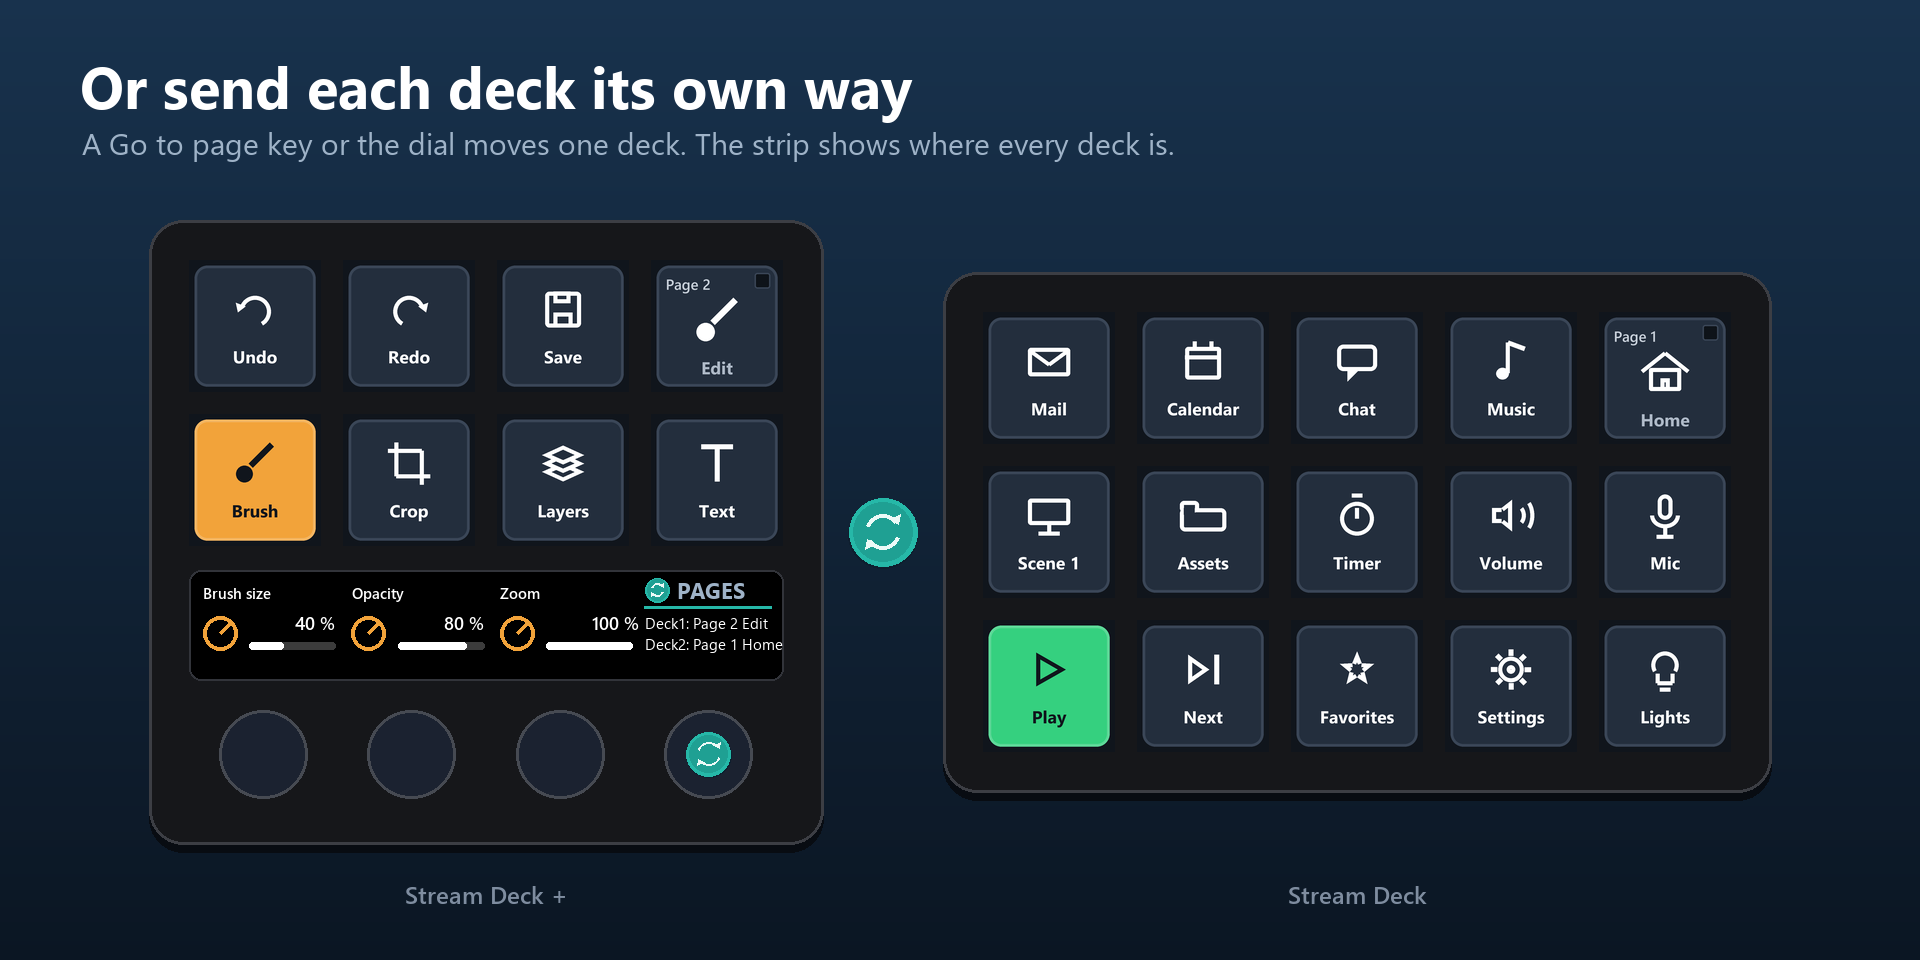
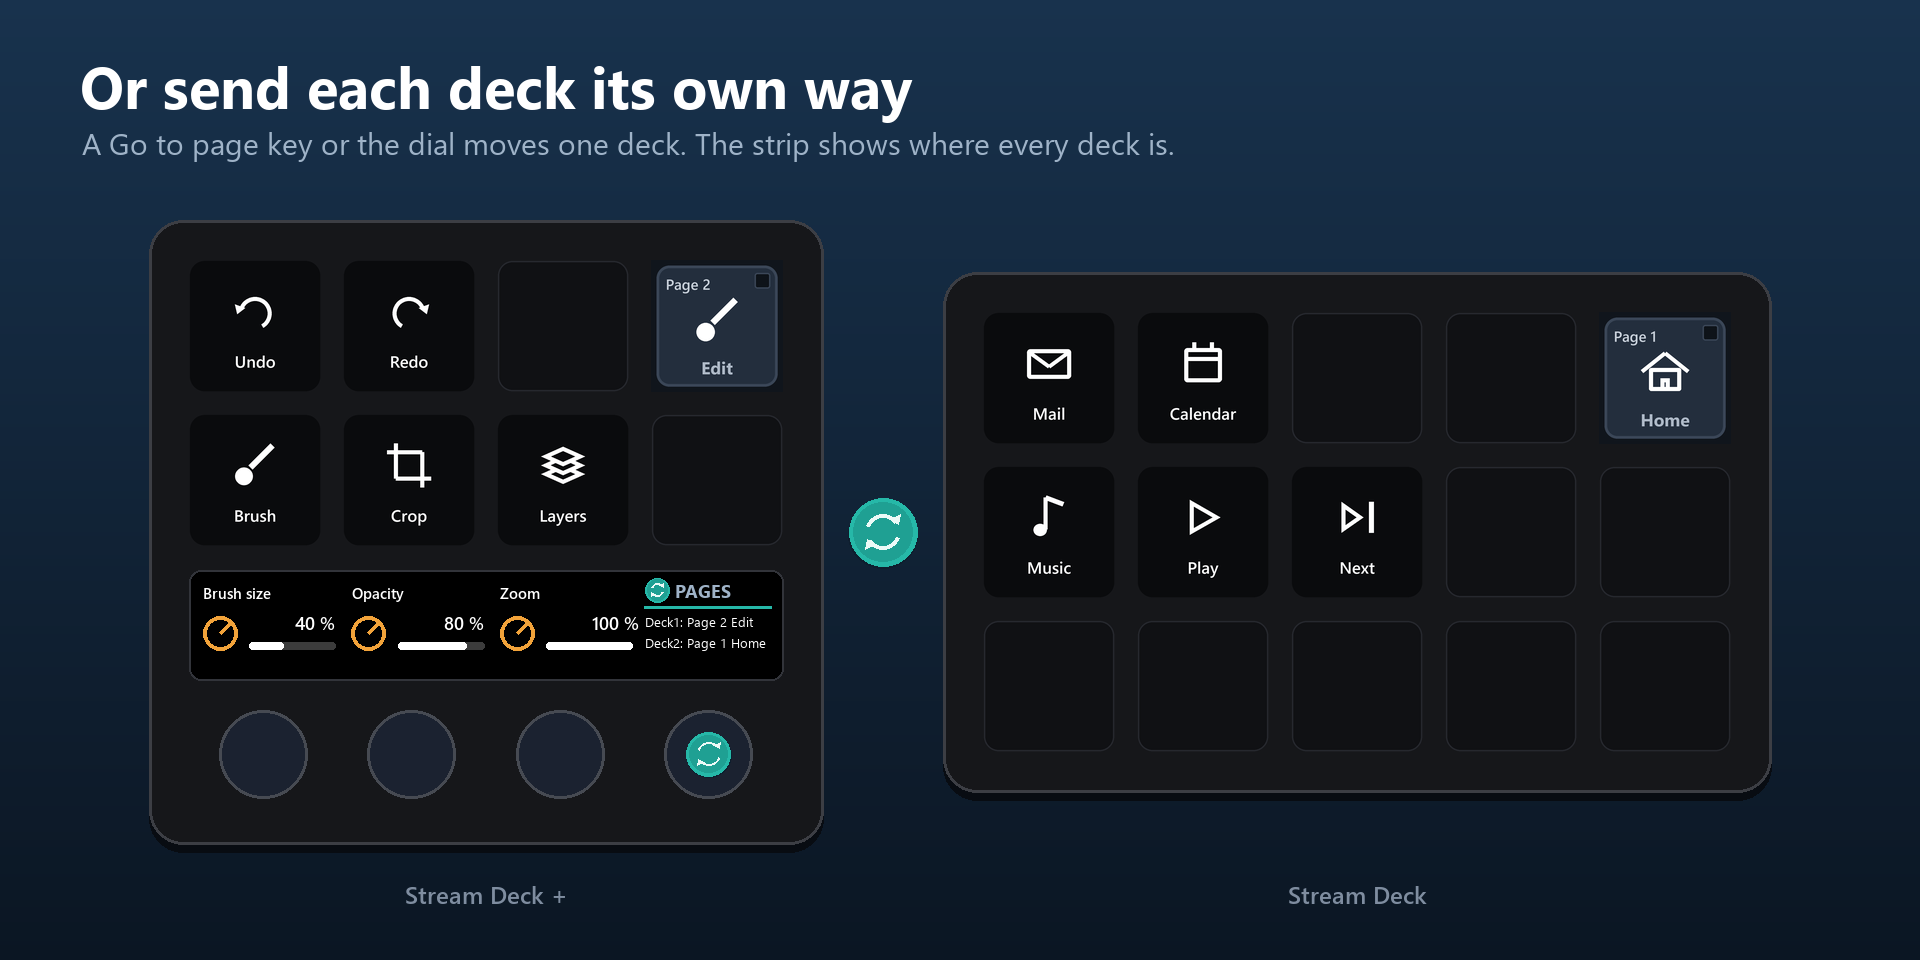
Illustrations: standard black keys, sparse pages so the DeckSync keys stand out

diff --git a/tools/gen-promo.py b/tools/gen-promo.py
@@ -139,25 +139,34 @@ def g_calendar(d, cx, cy, k, c, w):
         d.line((cx + dx * k, cy - 19 * k, cx + dx * k, cy - 11 * k), fill=c, width=w)
 
 
+KEY_BG = (10, 11, 13)
+
+
+def blank(S=576):
+    """Standard Stream Deck-tast: svart, avrundet, uten ramme."""
+    img = Image.new("RGB", (S, S), il.BODY)
+    d = ImageDraw.Draw(img)
+    d.rounded_rectangle((4, 4, S - 4, S - 4), radius=64, fill=KEY_BG)
+    return img, d
+
+
+def empty():
+    img, d = blank()
+    d.rounded_rectangle((4, 4, 572, 572), radius=64, fill=(16, 17, 20), outline=(38, 40, 46), width=6)
+    return img.resize((KEY, KEY), Image.LANCZOS)
+
+
 def ukey(label, glyph, fill=None):
-    """Vanlig tast: ikon og navn. fill gir farget flis (aktiv/advarsel)."""
+    """Vanlig tast i appens standardstil: hvitt ikon og hvit tittel på svart."""
+    global TILE
     S, q = 576, 4
-    img, d, _ = gi.tile_base(S)
-    fg = WHITE
-    if fill:
-        edge = tuple(min(255, int(ch * 0.8 + 51)) for ch in fill)
-        d.rounded_rectangle((6 * q, 6 * q, 138 * q, 138 * q), radius=14 * q, fill=fill, outline=edge, width=3 * q)
-        fg = DARK if (0.299 * fill[0] + 0.587 * fill[1] + 0.114 * fill[2]) > 150 else WHITE
-    if fill:  # glyfer med TILE-fyll (lag) trenger flisfargen
-        global TILE
-        old, TILE = TILE, fill
-        glyph(d, 72 * q, 54 * q, q * 1.15, fg, int(4.5 * q))
-        TILE = old
-    else:
-        glyph(d, 72 * q, 54 * q, q * 1.15, fg, int(4.5 * q))
-    fo = f(19 * q, "bold")
+    img, d = blank()
+    old, TILE = TILE, KEY_BG
+    glyph(d, 72 * q, 56 * q, q * 1.2, WHITE, int(4.5 * q))
+    TILE = old
+    fo = f(18 * q, "semi")
     tw = d.textlength(label, font=fo)
-    d.text(((S - tw) / 2, 92 * q), label, font=fo, fill=fg)
+    d.text(((S - tw) / 2, 98 * q), label, font=fo, fill=WHITE)
     return img.resize((KEY, KEY), Image.LANCZOS)
 
 
@@ -175,11 +184,10 @@ PAGES = {1: ("Home", gi.g_home), 2: ("Edit", g_brush), 3: ("Stream", g_rec), 4: 
 mk = lambda p, lit=True: il.marker(p, PAGES[p][0], PAGES[p][1], lit)
 stp = lambda p, prev=False: i2.step(p, PAGES[p][0], PAGES[p][1], prev)
 
-EDIT_PLUS = lambda lit=True: [U["undo"], U["redo"], U["save"], mk(2, lit), U["brush"], U["crop"], U["layers"], U["text"]]
-EDIT_15 = lambda: [U["zoom"], U["crop"], U["layers"], U["text"], mk(2), U["undo"], U["redo"], U["save"], U["export"], U["assets"],
-                   U["preview"], U["rec"], U["mic"], U["volume"], U["fav"]]
-HOME_15 = lambda: [U["mail"], U["calendar"], U["chat"], U["music"], mk(1, False), U["scene1"], U["assets"], U["timer"], U["volume"], U["mic"],
-                   U["play"], U["next"], U["fav"], U["settings"], U["lights"]]
+E = empty()
+EDIT_PLUS = lambda lit=True: [U["undo"], U["redo"], E, mk(2, lit), U["brush"], U["crop"], U["layers"], E]
+EDIT_15 = lambda: [U["zoom"], U["text"], E, E, mk(2), U["save"], U["export"], E, E, E, E, E, E, E, E]
+HOME_15 = lambda: [U["mail"], U["calendar"], E, E, mk(1, False), U["music"], U["play"], U["next"], E, E, E, E, E, E, E]
 SEGS = [("Brush size", 40), ("Opacity", 80), ("Zoom", 100)]
 
 
@@ -192,7 +200,7 @@ def no_dial(out):
     img, d = i2.header("No dial? No problem", "Page step keys go to the next or previous page, and show where they lead.")
     sd15 = EDIT_15()
     sd15[10], sd15[14] = stp(1, True), stp(3)
-    mini = [U["undo"], U["save"], mk(2), stp(1, True), U["brush"], stp(3)]
+    mini = [U["undo"], E, mk(2), stp(1, True), E, stp(3)]
     KEYW, GAP, PAD = il.KEY, il.GAP, il.PAD
     w1, w2 = 5 * KEYW + 4 * GAP + 2 * PAD, 3 * KEYW + 2 * GAP + 2 * PAD
     h1, h2 = 3 * KEYW + 2 * GAP + 2 * PAD, 2 * KEYW + GAP + 2 * PAD

diff --git a/tools/gen-illustrations.py b/tools/gen-illustrations.py
@@ -78,10 +78,10 @@ def strip(img, x, y, w, lines, header, header_color, segs):
             d.rounded_rectangle((sx + 46, y + 72, sx + 46 + 86 * val / 100, y + 79), radius=3, fill=WHITE)
     sx = x + 3 * seg + 10
     gi.draw_sync_badge(d, sx + 13, y + 20, 12, 0.1)
-    d.text((sx + 32, y + 5), header, font=f(22, "bold"), fill=header_color)
+    d.text((sx + 30, y + 8), header, font=f(18, "bold"), fill=header_color)
     d.rectangle((sx, y + 36, x + w - 12, y + 38), fill=CYAN)
     for i, (text, color) in enumerate(lines[:3]):
-        d.text((sx, y + 42 + i * 21), text, font=f(15), fill=color)
+        d.text((sx, y + 42 + i * 21), text, font=f(13), fill=color)
 
 
 def dials(img, x, y, w, active):
